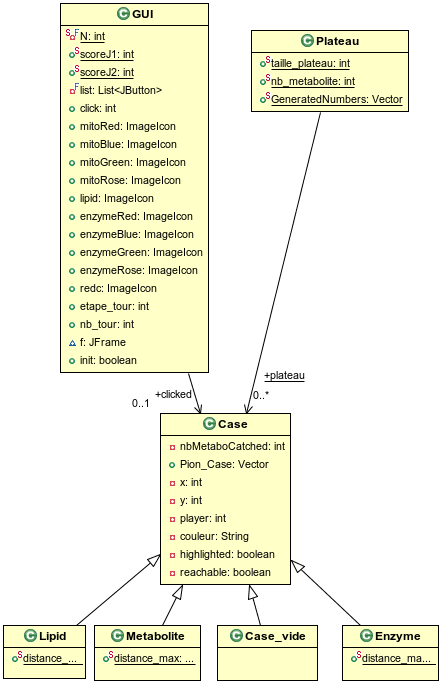
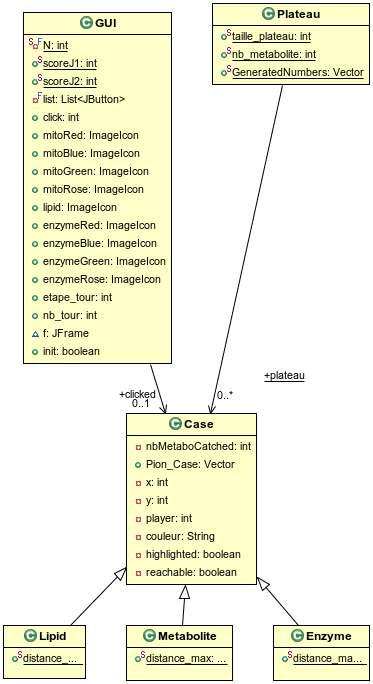
nettoyage & case vide a virer ?

Changed region(s): [[0.0, 0.0, 1.0, 1.0], [0.7078, 0.5219, 0.8257, 0.5526]]

diff --git a/GUI.java b/GUI.java
@@ -32,18 +32,16 @@ public class GUI {
     private final List<JButton> list = new ArrayList<JButton>();
     public int click = 0;
     public Case clicked;
-    public ImageIcon mitoRed = new ImageIcon("./mito_red.png");
-    public ImageIcon mitoBlue = new ImageIcon("./mito_blue.png");
-    public ImageIcon mitoGreen = new ImageIcon("./mito_green.png");
-    public ImageIcon mitoRose = new ImageIcon("./mito_rose.png");
-    public ImageIcon lipid = new ImageIcon("./lipid.png");
-    public ImageIcon enzymeRed = new ImageIcon("./enzyme_red.png");
-    public ImageIcon enzymeBlue = new ImageIcon("./enzyme_blue.png");
-    public ImageIcon enzymeGreen = new ImageIcon("./enzyme_green.png");
-    public ImageIcon enzymeRose = new ImageIcon("./enzyme_rose.png");
-    public ImageIcon redc = new ImageIcon(
-            new ImageIcon("./circlered.png").getImage().getScaledInstance(52, 52, Image.SCALE_DEFAULT));
-
+    public ImageIcon mitoRed = new ImageIcon("./img/mito_red.png");
+    public ImageIcon mitoBlue = new ImageIcon("./img/mito_blue.png");
+    public ImageIcon mitoGreen = new ImageIcon("./img/mito_green.png");
+    public ImageIcon mitoRose = new ImageIcon("./img/mito_rose.png");
+    public ImageIcon lipid = new ImageIcon("./img/lipid.png");
+    public ImageIcon enzymeRed = new ImageIcon("./img/enzyme_red.png");
+    public ImageIcon enzymeBlue = new ImageIcon("./img/enzyme_blue.png");
+    public ImageIcon enzymeGreen = new ImageIcon("./img/enzyme_green.png");
+    public ImageIcon enzymeRose = new ImageIcon("./img/enzyme_rose.png");
+    
     public int etape_tour = 1; //0:metabolite, 1: joueur1, joueur2,
     public int nb_tour = 1;
 
